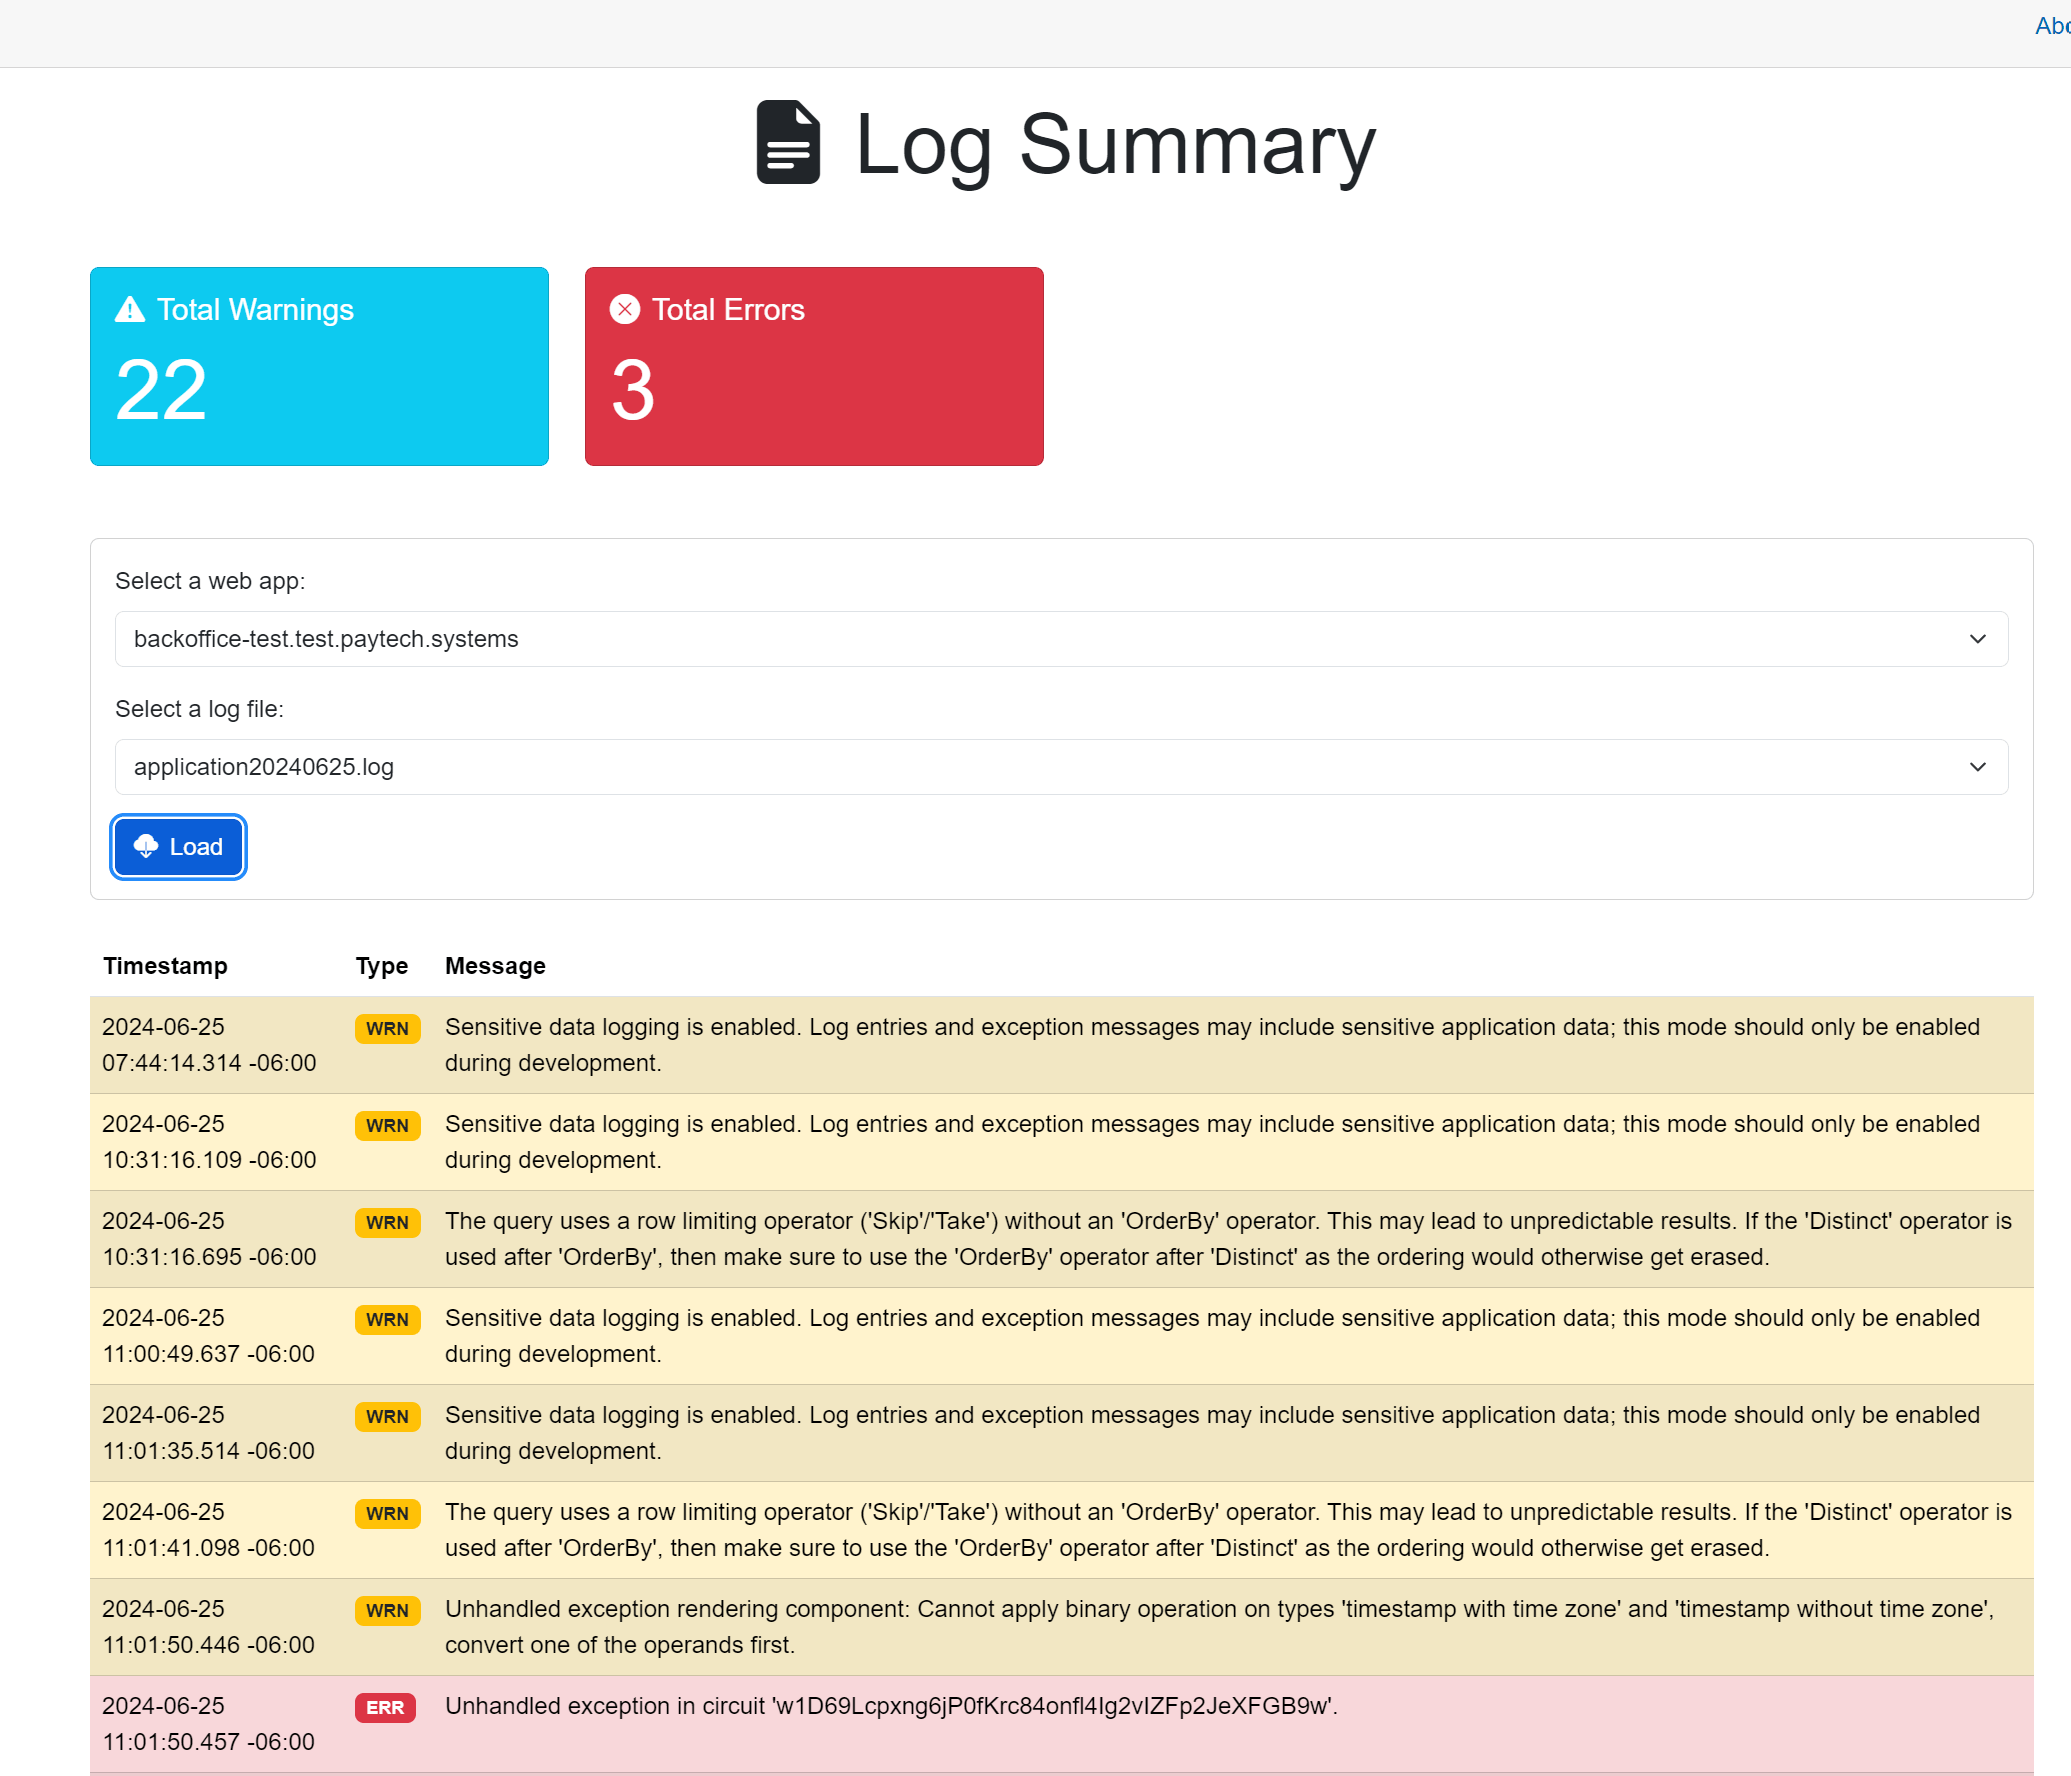
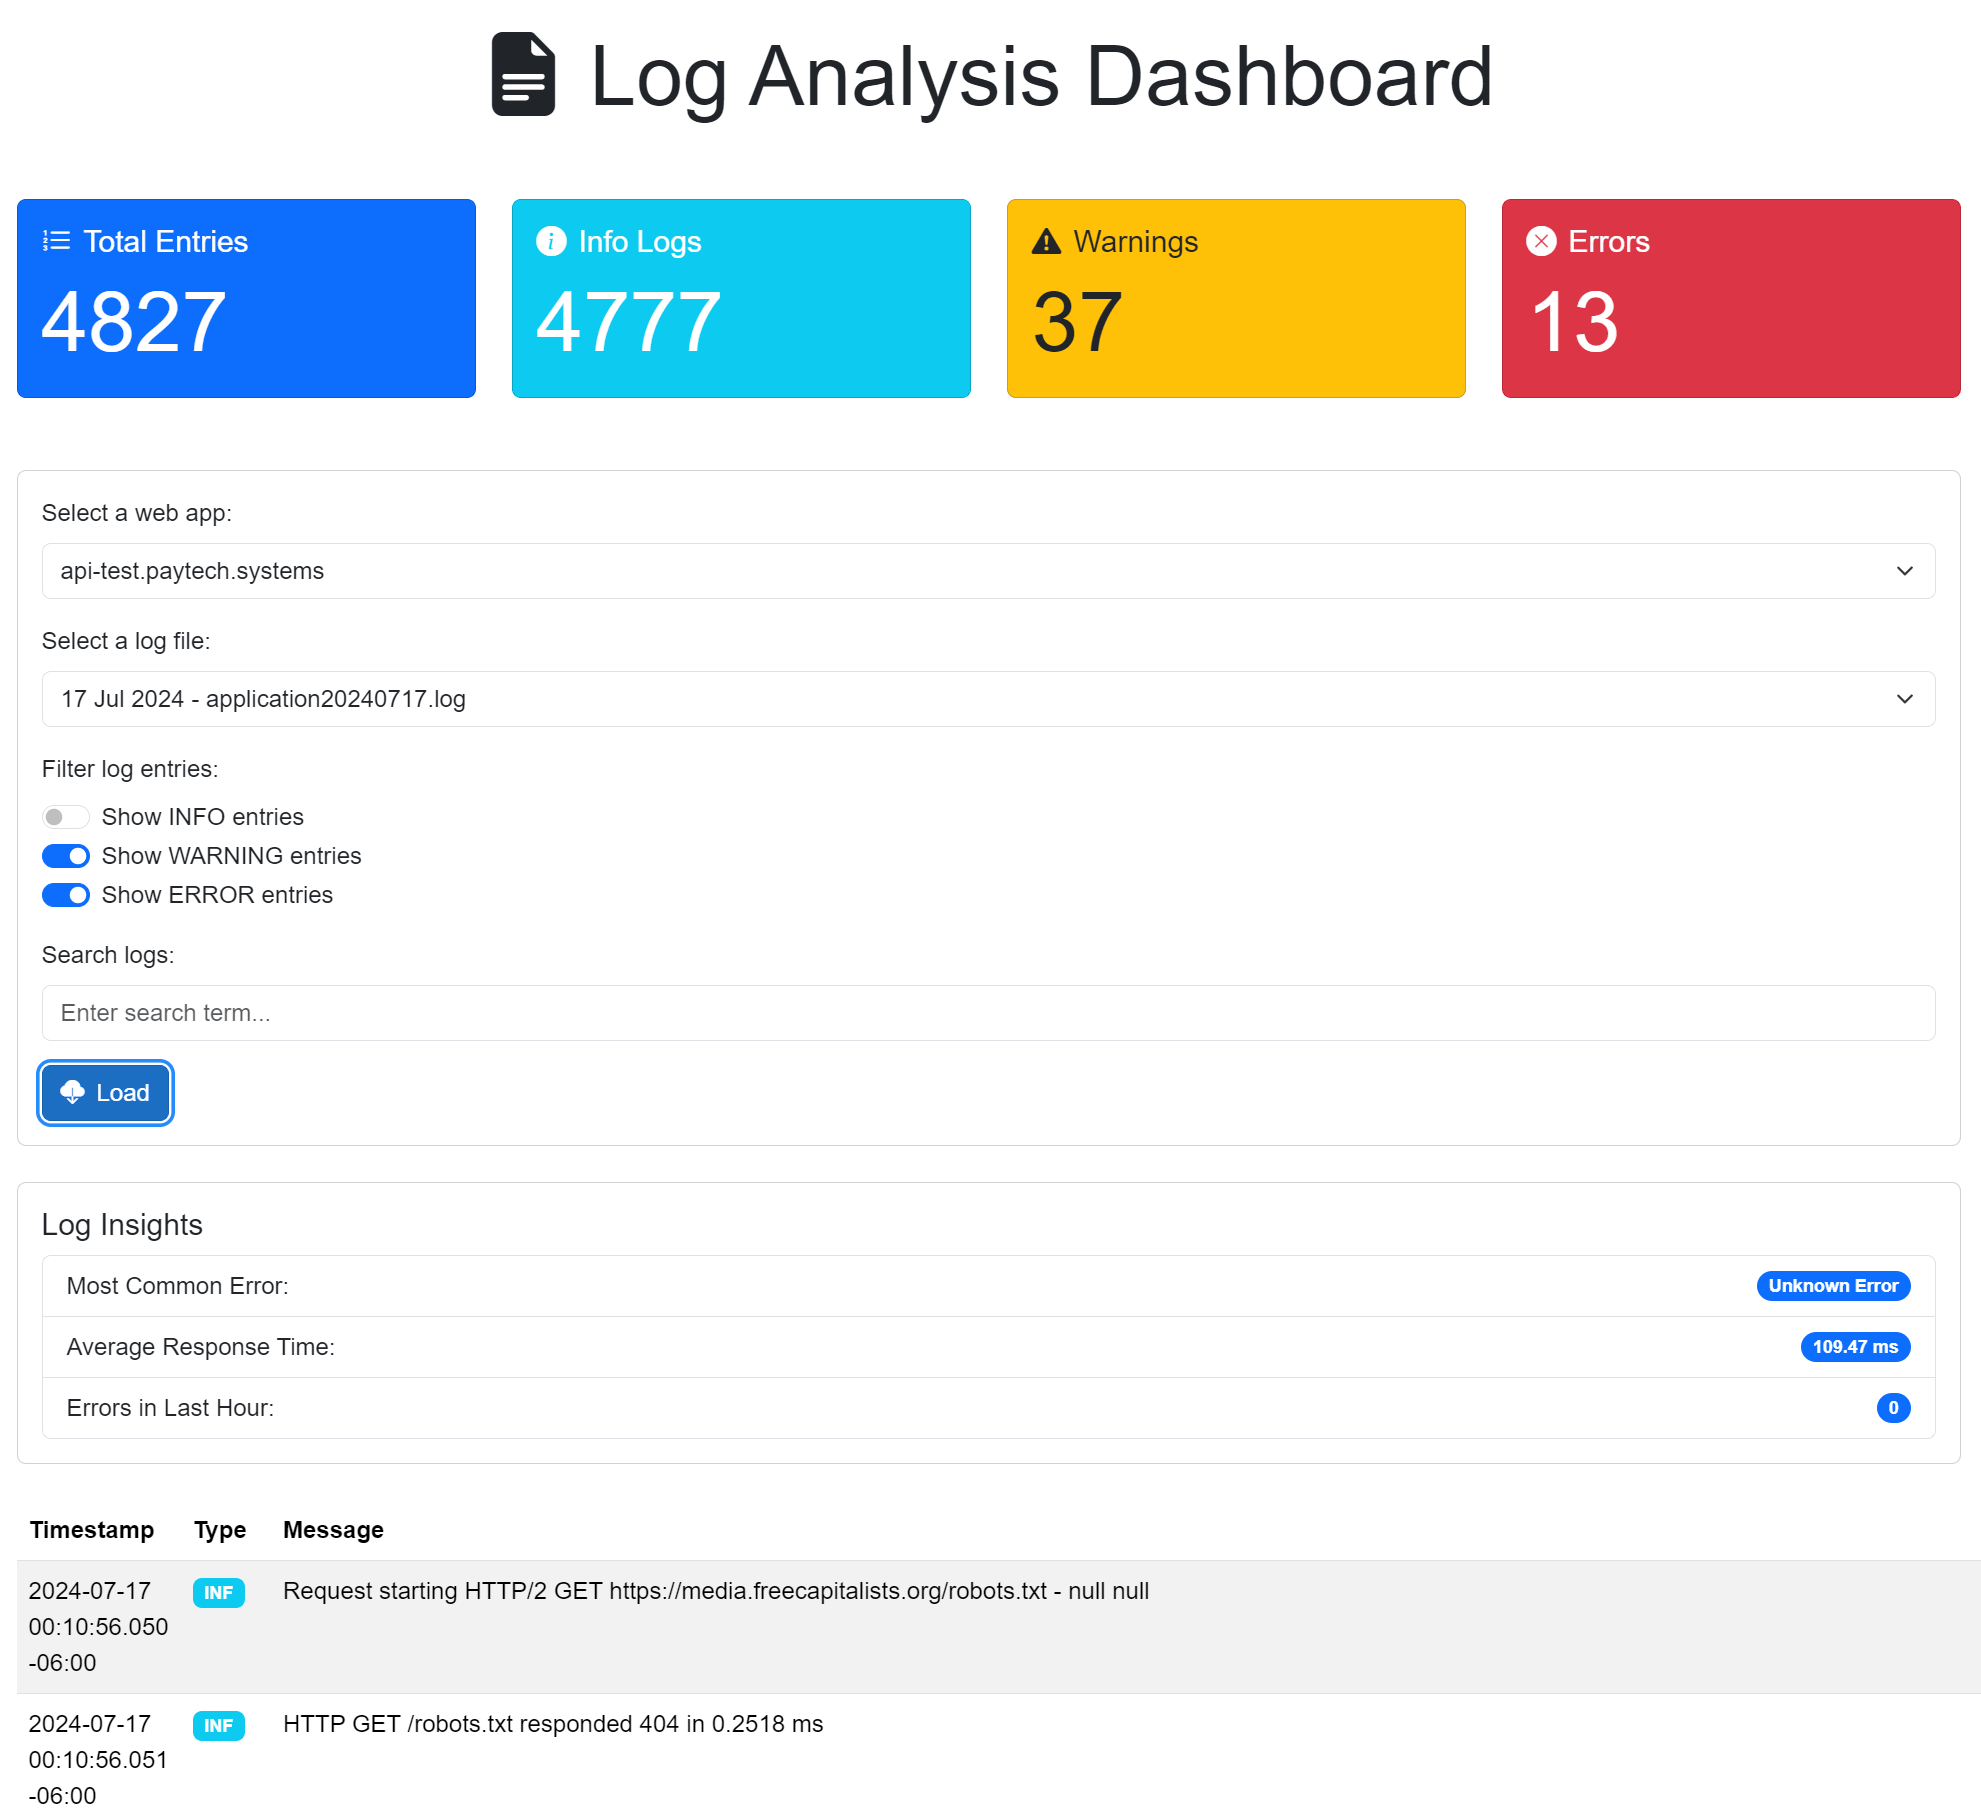
log viewer enhancmeents

diff --git a/IISLogViewer/LogsController.cs b/IISLogViewer/LogsController.cs
@@ -72,28 +72,45 @@ namespace PayTech.BackOffice.BackOfficeWeb.Controllers
         {
             var logEntries = new List<LogEntry>();
             var lines = logContent.Split(new[] { Environment.NewLine }, StringSplitOptions.RemoveEmptyEntries);
+            LogEntry currentEntry = null;
+
             foreach (var line in lines)
             {
-                var entry = ParseLogEntry(line);
-                if (entry != null && entry.Type != "INF")
+                var newEntry = ParseLogEntry(line);
+                if (newEntry != null)
                 {
-                    logEntries.Add(entry);
+                    if (currentEntry != null)
+                    {
+                        logEntries.Add(currentEntry);
+                    }
+                    currentEntry = newEntry;
+                }
+                else if (currentEntry != null)
+                {
+                    currentEntry.Message += Environment.NewLine + line;
                 }
             }
+
+            if (currentEntry != null)
+            {
+                logEntries.Add(currentEntry);
+            }
+
             return logEntries;
         }
 
         private LogEntry ParseLogEntry(string line)
         {
-            // IIS log format: yyyy-MM-dd HH:mm:ss.fff +/-zz:zz [LOG_LEVEL] Message
-            var match = System.Text.RegularExpressions.Regex.Match(line, @"^(\d{4}-\d{2}-\d{2} \d{2}:\d{2}:\d{2}\.\d{3} [+-]\d{2}:\d{2}) \[(.*?)\] (.*)$");
+            // Updated regex to handle both formats
+            var match = System.Text.RegularExpressions.Regex.Match(line, @"^(\d{4}-\d{2}-\d{2} \d{2}:\d{2}:\d{2}\.\d{3} [+-]\d{2}:\d{2}) (?:\[(\d+)\] )?\[(.*?)\] (.*)$");
             if (match.Success)
             {
                 return new LogEntry
                 {
                     Timestamp = match.Groups[1].Value.Trim(),
-                    Type = match.Groups[2].Value.Trim(),
-                    Message = match.Groups[3].Value.Trim()
+                    ProcessId = match.Groups[2].Success ? match.Groups[2].Value : null,
+                    Type = match.Groups[3].Value.Trim(),
+                    Message = match.Groups[4].Value.Trim()
                 };
             }
             return null;
@@ -103,7 +120,8 @@ namespace PayTech.BackOffice.BackOfficeWeb.Controllers
     public class LogEntry
     {
         public string Timestamp { get; set; }
-        public string Message { get; set; }
+        public string? ProcessId { get; set; }
         public string Type { get; set; }
+        public string Message { get; set; }
     }
 }
